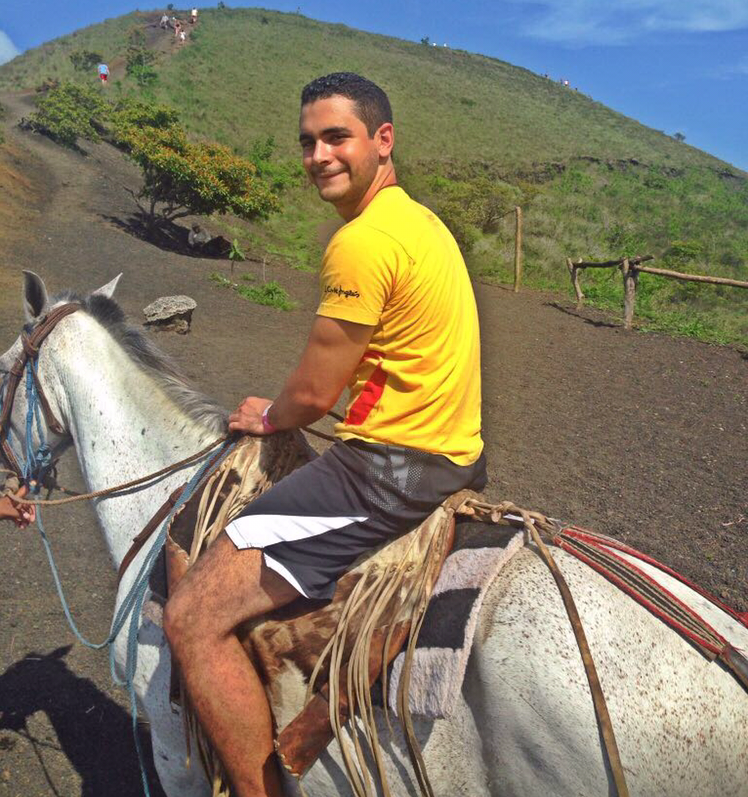
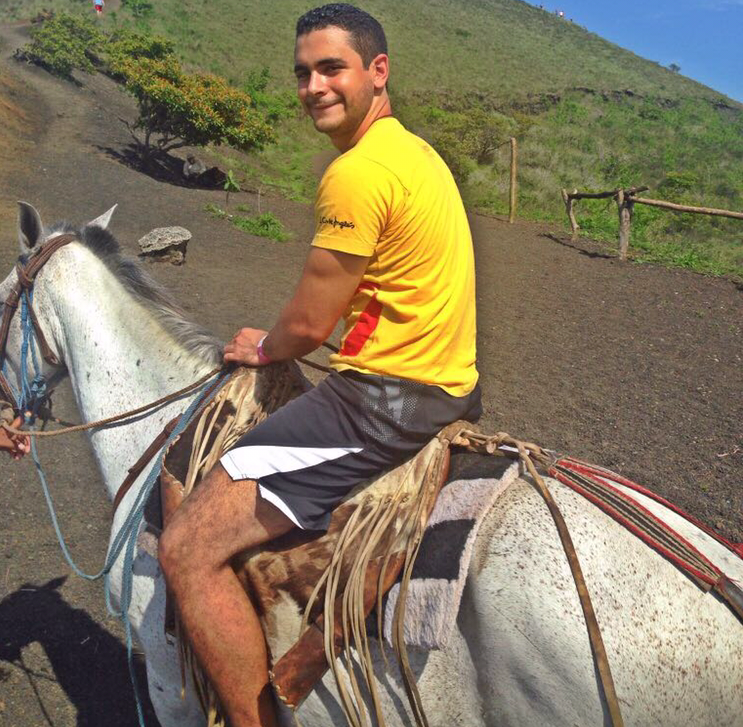
update image

diff --git a/index.html b/index.html
@@ -319,11 +319,11 @@
 
           <div class="col-lg-4 col-md-6 wow fadeInUp" data-wow-delay="0.1s">
             <div class="member">
-              <img src="img/team-1.png" class="img-fluid" alt="">
+              <img src="img/team-1.jpg" class="img-fluid" alt="">
               <div class="member-info">
                 <div class="member-info-content">
                   <h4>Bryan Morgan</h4>
-                  <span>Product Manager</span>
+                  <span>Sr. Technical Program Manager / Data Scientist</span>
                 </div>
               </div>
             </div>
